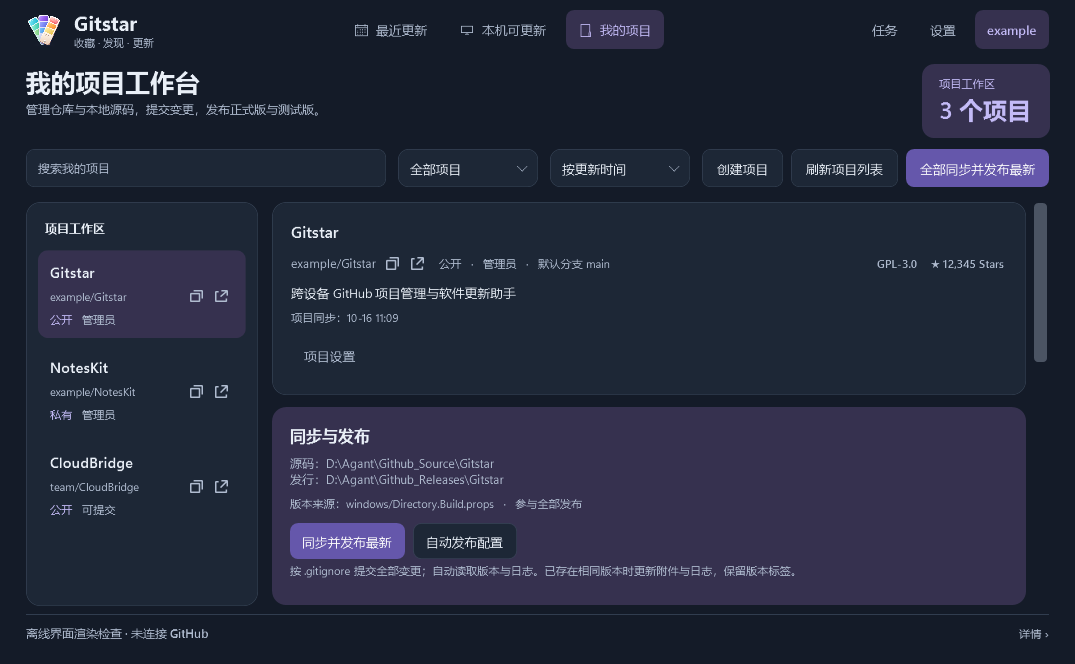
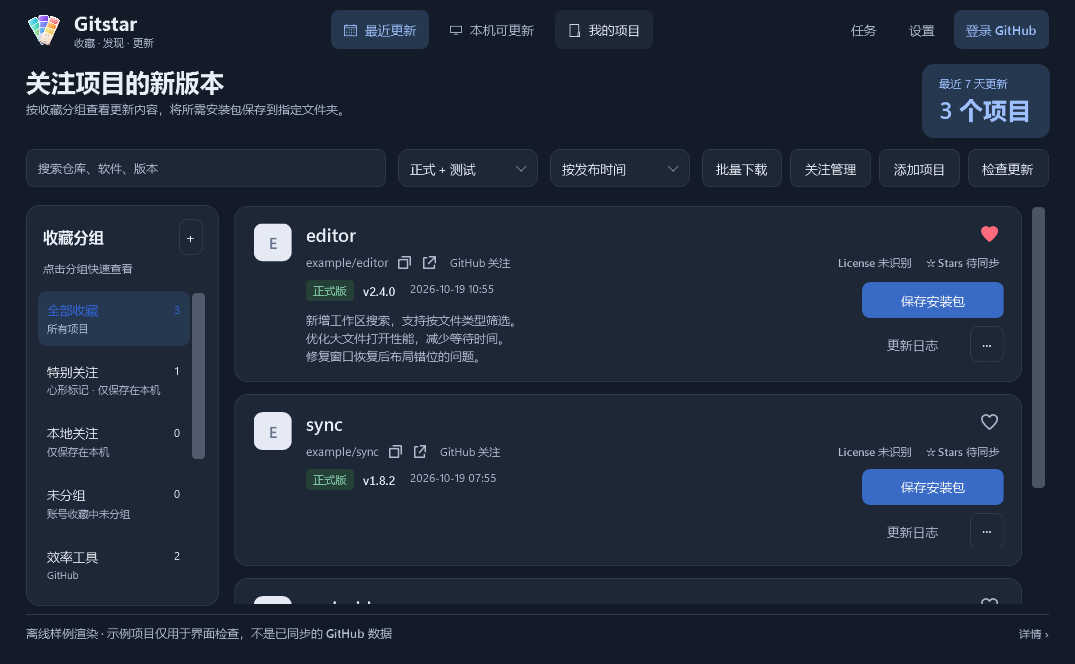
更新源码：修改 11 项，新增 4 项

diff --git a/windows/Gitstar.Desktop/MainWindow.xaml b/windows/Gitstar.Desktop/MainWindow.xaml
@@ -68,6 +68,15 @@
       <SolidColorBrush x:Key="StableInk" Color="#267554" />
       <SolidColorBrush x:Key="BetaSoft" Color="#FCF1DB" />
       <SolidColorBrush x:Key="BetaInk" Color="#8E6429" />
+      <SolidColorBrush x:Key="HeartInk" Color="#E5485D" />
+      <Style x:Key="SpecialFollowButton" TargetType="Button" BasedOn="{StaticResource {x:Type Button}}">
+        <Setter Property="Width" Value="28"/><Setter Property="Height" Value="28"/><Setter Property="MinHeight" Value="28"/><Setter Property="Padding" Value="5"/><Setter Property="Margin" Value="0,-3,0,0"/><Setter Property="Background" Value="Transparent"/><Setter Property="BorderThickness" Value="0"/><Setter Property="Foreground" Value="{DynamicResource Muted}"/>
+        <Setter Property="ToolTip" Value="{Binding SpecialFollowHint}"/><Setter Property="AutomationProperties.Name" Value="{Binding SpecialFollowHint}"/>
+        <Style.Triggers>
+          <Trigger Property="IsMouseOver" Value="True"><Setter Property="Foreground" Value="{DynamicResource HeartInk}"/><Setter Property="Background" Value="{DynamicResource AccentSoft}"/></Trigger>
+          <DataTrigger Binding="{Binding IsSpecial}" Value="True"><Setter Property="Foreground" Value="{DynamicResource HeartInk}"/></DataTrigger>
+        </Style.Triggers>
+      </Style>
       <Style x:Key="ProjectAddressButton" TargetType="Button" BasedOn="{StaticResource TertiaryButton}">
         <Setter Property="Width" Value="24"/><Setter Property="Height" Value="24"/><Setter Property="MinHeight" Value="24"/><Setter Property="Padding" Value="5"/><Setter Property="Margin" Value="1,0,0,0"/><Setter Property="VerticalAlignment" Value="Center"/>
         <Style.Triggers>
@@ -311,7 +320,12 @@
                         <RowDefinition Height="Auto" />
                       </Grid.RowDefinitions>
                       <local:OwnerAvatar Grid.RowSpan="3" Repository="{Binding Repository}" VerticalAlignment="Top" HorizontalAlignment="Left" />
-                      <TextBlock Grid.Column="1" Grid.ColumnSpan="2" Text="{Binding Title}" FontSize="18" FontWeight="SemiBold" />
+                      <TextBlock Grid.Column="1" Grid.ColumnSpan="2" Text="{Binding Title}" FontSize="18" FontWeight="SemiBold" TextTrimming="CharacterEllipsis" Margin="0,0,38,0" />
+                      <Button Grid.Column="2" HorizontalAlignment="Right" VerticalAlignment="Top" Tag="{Binding}" Click="SpecialFollow_Click" Style="{StaticResource SpecialFollowButton}" AutomationProperties.AutomationId="SpecialFollowButton">
+                        <Path Data="M12,21 C10,19 2,13 2,7.5 C2,2 9,0 12,5 C15,0 22,2 22,7.5 C22,13 14,19 12,21 Z" Width="17" Height="17" Stretch="Uniform" Stroke="{Binding Foreground,RelativeSource={RelativeSource AncestorType=Button}}" StrokeThickness="1.6" StrokeLineJoin="Round">
+                          <Path.Style><Style TargetType="Path"><Setter Property="Fill" Value="Transparent"/><Style.Triggers><DataTrigger Binding="{Binding IsSpecial}" Value="True"><Setter Property="Fill" Value="{Binding Foreground,RelativeSource={RelativeSource AncestorType=Button}}"/></DataTrigger></Style.Triggers></Style></Path.Style>
+                        </Path>
+                      </Button>
                       <Grid Grid.Row="1" Grid.Column="1" Grid.ColumnSpan="2" Margin="0,2,0,6">
                         <Grid.ColumnDefinitions>
                           <ColumnDefinition />

diff --git a/windows/Gitstar.Desktop/MainWindow.xaml.cs b/windows/Gitstar.Desktop/MainWindow.xaml.cs
@@ -118,7 +118,7 @@ public partial class MainWindow : Window
         foreach(var key in transfers.Where(p=>!p.Value.Active && !p.Value.NeedsDetection && !retained.Contains(p.Key)).Select(p=>p.Key).ToArray())transfers.Remove(key);
     }
     private void AccountLabel()=>model.Account=settings.Account.Length==0?"登录 GitHub":settings.Account;
-    private void RebuildGroups()
+    private void RebuildGroups(bool refresh=true)
     {
         var selected=(GroupSidebar.SelectedItem as GroupEntry)?.Id??"all";var allGroups=groups.Concat(settings.LocalGroups).ToList();
         var repoNames=repositories.Select(r=>r.FullName).Concat(releases.Select(r=>r.Repository)).Concat(settings.ExtraRepositories).Where(r=>!settings.HiddenRepositories.Contains(r,StringComparer.OrdinalIgnoreCase)).Distinct(StringComparer.OrdinalIgnoreCase).ToList();
@@ -126,12 +126,13 @@ public partial class MainWindow : Window
         syncingGroups=true;
         try{
             model.Groups.Clear();model.Groups.Add(new("all","全部收藏","所有项目",repoNames.Count));
+            model.Groups.Add(new(SpecialFollows.GroupId,"特别关注","心形标记 · 仅保存在本机",SpecialFollows.Visible(settings,repoNames).Length));
             model.Groups.Add(new("local-following","本地关注","仅保存在本机",FollowLists.Local(repositories,settings.ExtraRepositories,settings.HiddenRepositories).Length));
             model.Groups.Add(new("ungrouped","未分组","账号收藏中未分组",repoNames.Count(r=>githubFollowed.Contains(r)&&!allGroups.Any(g=>g.Repositories.Contains(r,StringComparer.OrdinalIgnoreCase)))));
             foreach(var g in allGroups)model.Groups.Add(new(g.Source+"/"+g.Id,g.Name,g.Source,g.Repositories.Distinct(StringComparer.OrdinalIgnoreCase).Count(r=>!settings.HiddenRepositories.Contains(r,StringComparer.OrdinalIgnoreCase)&&(g.Source!="GitHub"||githubFollowed.Contains(r)))));
             GroupFilter.ItemsSource=model.Groups.Select(g=>g.Name).ToArray();
             var index=model.Groups.ToList().FindIndex(g=>g.Id==selected);GroupFilter.SelectedIndex=Math.Max(index,0);GroupSidebar.SelectedIndex=GroupFilter.SelectedIndex;
-        }finally{syncingGroups=false;}Display();
+        }finally{syncingGroups=false;}if(refresh)Display();
     }
     private void PlanUpdates()
     {
@@ -162,11 +163,12 @@ public partial class MainWindow : Window
         if(!localPage)cards=cards.Where(c=>!settings.HiddenRepositories.Contains(c.Repository,StringComparer.OrdinalIgnoreCase));
         if(!localPage&&selectedGroup=="ungrouped")cards=cards.Where(c=>githubFollowed.Contains(c.Repository)&&!allGroups.Any(g=>g.Repositories.Contains(c.Repository,StringComparer.OrdinalIgnoreCase)));
         if(!localPage&&selectedGroup=="local-following")cards=cards.Where(c=>localFollowed.Contains(c.Repository));
+        if(!localPage&&selectedGroup==SpecialFollows.GroupId)cards=cards.Where(c=>SpecialFollows.Contains(settings,c.Repository));
         if(!localPage&&allGroups.FirstOrDefault(g=>g.Source+"/"+g.Id==selectedGroup) is {} filterGroup)cards=cards.Where(c=>filterGroup.Repositories.Contains(c.Repository,StringComparer.OrdinalIgnoreCase)&&(filterGroup.Source!="GitHub"||githubFollowed.Contains(c.Repository)));
         cards=cards.Where(c=>(c.Title+" "+c.Repository+" "+c.Version).Contains(search,StringComparison.OrdinalIgnoreCase));
         if(!localPage)cards=cards.GroupBy(c=>c.Repository,StringComparer.OrdinalIgnoreCase).Select(g=>{var selectedRelease=Rules.SelectRelease(g.Select(c=>c.Release),new Binding{IncludePrerelease=channel!=0})!;return g.First(c=>ReferenceEquals(c.Release,selectedRelease));});
         var selected=model.Cards.Where(c=>c.IsSelected).Select(c=>(c.Repository,c.Release.Id)).Concat(backgroundSelections).ToHashSet();
-        model.Cards.Clear();foreach(var card in Card.Order(cards)){card.Transfer=TransferFor(card.Release,localPage);card.IsSelected=model.SelectionMode&&selected.Contains((card.Repository,card.Release.Id));model.Cards.Add(card);}
+        model.Cards.Clear();foreach(var card in Card.Order(cards)){card.Transfer=TransferFor(card.Release,localPage);card.IsSpecial=SpecialFollows.Contains(settings,card.Repository);card.IsSelected=model.SelectionMode&&selected.Contains((card.Repository,card.Release.Id));model.Cards.Add(card);}
         backgroundSelections.Clear();
         var now=DateTimeOffset.UtcNow;
         model.CountCaption=localPage?"本机待更新软件":"最近 7 天更新";
@@ -174,6 +176,7 @@ public partial class MainWindow : Window
         CountPanel.Background=(Brush)Resources["AccentSoft"];
         model.Empty=localPage?"没有已确认的软件更新":"还没有匹配的版本";
         model.Hint=localPage?$"已检测 {installed.Count} 个软件，已关联 {settings.Bindings.Count} 个。点击「自动匹配 / 批量关联」集中确认软件仓库；未匹配项仍可手动管理。":"登录 GitHub 同步收藏，或添加仓库；也可调整左侧分组、搜索和版本通道。";
+        if(!localPage&&selectedGroup==SpecialFollows.GroupId){model.Empty="特别关注中没有匹配的项目";model.Hint="点击项目卡片右上角的心形加入特别关注，也可调整搜索和版本通道。";}
         EmptyPanel.Visibility=model.Cards.Count==0?Visibility.Visible:Visibility.Collapsed;
     }
     private void Filter_Changed(object sender,RoutedEventArgs e){if(syncingGroups)return;if(GroupSidebar!=null && GroupFilter!=null){syncingGroups=true;try{GroupSidebar.SelectedIndex=GroupFilter.SelectedIndex;}finally{syncingGroups=false;}}Display();}
@@ -546,6 +549,7 @@ public partial class MainWindow : Window
             if(!local){groups=[new("fixture-tools","效率工具","GitHub",["example/editor","example/sync"]),new("fixture-android","Android","GitHub",["example/android"])];settings.LocalGroups=[new("fixture-local","我的常用","本地",["example/editor"])];RebuildGroups();}
             ChannelFilter.SelectedIndex=1;Page(local);
             if(firstGroup&&!local)GroupSidebar.SelectedIndex=model.Groups.ToList().FindIndex(g=>g.Id=="GitHub/fixture-tools");
+            if(Environment.GetCommandLineArgs().Contains("--special-follows"))SpecialFollowsSmoke(path,local);
             if(Environment.GetCommandLineArgs().Contains("--repository-facts")){UpdateLayout();IEnumerable<RepositoryFacts> Facts(DependencyObject node){if(node is RepositoryFacts facts)yield return facts;for(var i=0;i<VisualTreeHelper.GetChildrenCount(node);i++)foreach(var found in Facts(VisualTreeHelper.GetChild(node,i)))yield return found;}var visible=Facts(this).ToArray();if(visible.Length==0||visible.Any(row=>row.Metadata?.Stars!=12345))throw new IOException("Card metadata binding failed");bool Aligned(RepositoryFacts facts){var header=(Grid)facts.Parent;var card=(Grid)header.Parent;var action=card.Children.OfType<StackPanel>().First(panel=>Grid.GetColumn(panel)==2);var button=action.Children.OfType<Button>().First();var address=header.Children.OfType<DockPanel>().Single();var a=facts.TranslatePoint(new Point(),card);var b=button.TranslatePoint(new Point(),card);var c=address.TranslatePoint(new Point(),card);return Math.Abs(a.X+facts.ActualWidth-b.X-button.ActualWidth)<1.1&&Math.Abs(a.Y+facts.ActualHeight/2-c.Y-address.ActualHeight/2)<1.1&&facts.ActualHeight<=24.1;}var aligned=visible.All(Aligned);if(!aligned)throw new IOException("Repository facts must share the address row and align with the download button");File.WriteAllText(Path.ChangeExtension(path,".repository-facts.json"),JsonSerializer.Serialize(new{Local=local,SameRowAndRightAligned=aligned,Cards=visible.Length,AllBound=visible.All(row=>row.Metadata?.License=="GPL-3.0"),Labels=visible[0].Children.OfType<Button>().Select(button=>(button.Content as TextBlock)?.Text).ToArray()}));}
             if(batchPreview){model.SelectionMode=true;model.Cards[0].IsSelected=true;}
             if(progressPreview){model.Cards[0].Transfer.Stage("下载中 0%",false);model.Cards[0].Transfer.Downloaded(27000000,50000000);if(model.Cards.Count>1)model.Cards[1].Transfer.Stage("安装器运行中");var before=model.Cards[0].Transfer;Page(!local);Page(local);File.WriteAllText(Path.ChangeExtension(path,".progress.json"),JsonSerializer.Serialize(new{ProgressPreserved=ReferenceEquals(before,model.Cards[0].Transfer),Label=model.Cards[0].Transfer.Label,CountCaption=model.CountCaption,Count=model.Count},new JsonSerializerOptions{WriteIndented=true}));}

diff --git a/windows/Gitstar.Desktop/MainWindow.SpecialFollows.Smoke.cs b/windows/Gitstar.Desktop/MainWindow.SpecialFollows.Smoke.cs
@@ -1,0 +1,30 @@
+using System.Windows;
+using System.Windows.Automation;
+using System.Windows.Controls;
+using System.Windows.Media;
+
+namespace Gitstar.Desktop;
+
+public partial class MainWindow
+{
+    private void SpecialFollowsSmoke(string path,bool local)
+    {
+        settings.SpecialRepositories=[];Save();SaveCache();RebuildGroups();var normalBefore=JsonSerializer.Serialize(new{Groups=groups,Local=settings.LocalGroups,Extra=settings.ExtraRepositories});api.Dispose();var transport=new SortingTransport();api=new(settings,transport);
+        IEnumerable<Button> Buttons(DependencyObject node){if(node is Button button)yield return button;for(var i=0;i<VisualTreeHelper.GetChildrenCount(node);i++)foreach(var found in Buttons(VisualTreeHelper.GetChild(node,i)))yield return found;}
+        Button Heart(string repo){UpdateLayout();return Buttons(this).First(button=>AutomationProperties.GetAutomationId(button)=="SpecialFollowButton"&&button.Tag is Card card&&card.Repository==repo);}
+        void Click(string repo)=>Heart(repo).RaiseEvent(new RoutedEventArgs(Button.ClickEvent));
+        var before=model.Cards.Single(card=>card.Repository=="example/editor");var heart=Heart(before.Repository);Click(before.Repository);UpdateLayout();
+        var shape=(System.Windows.Shapes.Path)heart.Content;var ink=(SolidColorBrush)shape.Fill;var red=before.IsSpecial&&ink.Color.A==255&&ink.Color.R>ink.Color.G&&ink.Color.R>ink.Color.B;var stable=ReferenceEquals(model.Cards.Single(card=>card.Repository==before.Repository),before)&&!before.IsSelected;
+        var group=model.Groups.Single(item=>item.Id==SpecialFollows.GroupId);var count=group.Count==1;
+        installed=[new("fixture1","示例编辑器","2.3.0",""),new("fixture2","示例同步工具","1.8.0","")];settings.Bindings=[new(){AppId="fixture1",Repository="example/editor"},new(){AppId="fixture2",Repository="example/sync"}];PlanUpdates();Page(true);var localMarked=model.Cards.Single(card=>card.Repository==before.Repository).IsSpecial;Page(false);
+        GroupSidebar.SelectedIndex=model.Groups.ToList().FindIndex(item=>item.Id==SpecialFollows.GroupId);var onlyMarked=model.Cards.Count==1&&model.Cards[0].Repository==before.Repository;
+        Click(before.Repository);var removed=model.Cards.Count==0&&model.Groups.Single(item=>item.Id==SpecialFollows.GroupId).Count==0&&(GroupSidebar.SelectedItem as GroupEntry)?.Id==SpecialFollows.GroupId;
+        GroupSidebar.SelectedIndex=model.Groups.ToList().FindIndex(item=>item.Id=="all");Click(before.Repository);settings=store.Get("settings",new Settings());LoadCache();RebuildGroups();Page(local);var restored=model.Cards.Single(card=>card.Repository==before.Repository).IsSpecial;
+        var selected=Heart(before.Repository);var header=(Grid)selected.Parent;var position=selected.TranslatePoint(new Point(),header);var right=Math.Abs(position.X+selected.ActualWidth-header.ActualWidth)<1.1&&Grid.GetRow(selected)==0;
+        var clear=Heart("example/sync");var outline=((SolidColorBrush)((System.Windows.Shapes.Path)clear.Content).Fill).Color.A==0;
+        var noCloud=transport.Requests==0;var noNormalGroupChanges=normalBefore==JsonSerializer.Serialize(new{Groups=groups,Local=settings.LocalGroups,Extra=settings.ExtraRepositories});
+        File.WriteAllText(Path.ChangeExtension(path,".special-follows.json"),JsonSerializer.Serialize(new{RedHeart=red,OutlineHeart=outline,TopRight=right,NoCardResetOrBulkSelection=stable,GroupCount=count,SpecialGroupFilters=onlyMarked,SecondClickRemoves=removed,RecentAndLocalShareState=localMarked,RestoredAfterReload=restored,NoGitHubRequests=noCloud,OriginalGroupsRetained=noNormalGroupChanges}));
+        if(!red||!outline||!right||!stable||!count||!onlyMarked||!removed||!localMarked||!restored||!noCloud||!noNormalGroupChanges)throw new IOException("Special follow heart or group regression");
+        if(Environment.GetCommandLineArgs().Contains("--special-group")&&!local)GroupSidebar.SelectedIndex=model.Groups.ToList().FindIndex(item=>item.Id==SpecialFollows.GroupId);
+    }
+}

diff --git a/windows/Gitstar.Checks/SpecialFollowChecks.cs b/windows/Gitstar.Checks/SpecialFollowChecks.cs
@@ -1,0 +1,20 @@
+using Gitstar.Core;
+using Gitstar.Desktop;
+using System.IO;
+
+internal static class SpecialFollowChecks
+{
+    public static void Run(Action<bool,string> check,string root)
+    {
+        var settings=new Settings{ExtraRepositories=["example/tool"],LocalGroups=[new("tools","工具","本地",["example/tool"])]};
+        check(!SpecialFollows.Contains(settings,"example/tool")&&settings.SpecialRepositories.Count==0,"existing settings start with no special follows");
+        SpecialFollows.Set(settings,"https://github.com/example/tool",true);SpecialFollows.Set(settings,"EXAMPLE/TOOL",true);
+        check(settings.SpecialRepositories.Count==1&&SpecialFollows.Contains(settings,"example/tool"),"heart selection is case-insensitive and duplicate-free");
+        check(SpecialFollows.Visible(settings,["example/tool","EXAMPLE/TOOL","other/tool"]).SequenceEqual(["example/tool"]),"special group includes only marked available repositories once");
+        check(settings.ExtraRepositories.SequenceEqual(["example/tool"])&&settings.LocalGroups.Single().Repositories.SequenceEqual(["example/tool"])&&settings.FollowHistory.Count==0,"special follows do not change normal follows group memberships or unfollow history");
+        var path=Path.Combine(root,"special-follows");using(var store=new LocalStore(path)){store.Set("settings",settings);store.Set("profile/other",new Settings());}
+        using(var store=new LocalStore(path)){var restored=store.Get("settings",new Settings());check(SpecialFollows.Contains(restored,"example/tool"),"red heart selection persists across database reopening");check(!SpecialFollows.Contains(store.Get("profile/other",new Settings()),"example/tool"),"another saved account profile does not inherit special follows");}
+        var rejected=false;try{SpecialFollows.Set(settings,"bad address",true);}catch(IOException){rejected=true;}check(rejected&&settings.SpecialRepositories.Count==1,"invalid project address does not damage existing special follows");
+        SpecialFollows.Set(settings,"example/tool",false);check(settings.SpecialRepositories.Count==0&&!SpecialFollows.Contains(settings,"EXAMPLE/TOOL"),"second heart click removes all spelling variants from special follows");
+    }
+}

diff --git a/windows/Gitstar.Desktop/MainWindow.SpecialFollows.cs b/windows/Gitstar.Desktop/MainWindow.SpecialFollows.cs
@@ -1,0 +1,19 @@
+using System.Windows;
+using System.Windows.Controls;
+
+namespace Gitstar.Desktop;
+
+public partial class MainWindow
+{
+    private void SpecialFollow_Click(object sender,RoutedEventArgs e)
+    {
+        e.Handled=true;if(quitting||(sender as Button)?.Tag is not Card card)return;
+        var before=settings.SpecialRepositories?.ToList()??[];var selected=!SpecialFollows.Contains(settings,card.Repository);
+        try{SpecialFollows.Set(settings,card.Repository,selected);store.Set("settings",settings);}
+        catch(Exception error){settings.SpecialRepositories=before;DialogMessage.Show(this,error.Message,"特别关注未保存");return;}
+        foreach(var item in model.Cards.Where(item=>item.Repository.Equals(card.Repository,StringComparison.OrdinalIgnoreCase)))item.IsSpecial=selected;
+        var removeFromCurrent=!localPage&&(GroupSidebar.SelectedItem as GroupEntry)?.Id==SpecialFollows.GroupId&&!selected;
+        RebuildGroups(refresh:removeFromCurrent);
+        model.Status=card.Repository+(selected?" 已加入特别关注。":" 已移出特别关注。");
+    }
+}

diff --git a/windows/Gitstar.Core/SpecialFollows.cs b/windows/Gitstar.Core/SpecialFollows.cs
@@ -1,0 +1,14 @@
+namespace Gitstar.Core;
+
+public static class SpecialFollows
+{
+    public const string GroupId="special-following";
+    public static bool Contains(Settings settings,string repository)=>(settings.SpecialRepositories??[]).Contains(repository,StringComparer.OrdinalIgnoreCase);
+    public static void Set(Settings settings,string repository,bool selected)
+    {
+        var name=Rules.RepositoryName(repository);if(!Rules.ValidRepository(name))throw new IOException("项目地址无效，无法设置特别关注。");
+        settings.SpecialRepositories??=[];settings.SpecialRepositories.RemoveAll(value=>value.Equals(name,StringComparison.OrdinalIgnoreCase));
+        if(selected)settings.SpecialRepositories.Add(name);
+    }
+    public static string[] Visible(Settings settings,IEnumerable<string> repositories)=>repositories.Where(repo=>Contains(settings,repo)).Distinct(StringComparer.OrdinalIgnoreCase).ToArray();
+}

diff --git a/windows/Gitstar.Desktop/MainWindow.Theme.cs b/windows/Gitstar.Desktop/MainWindow.Theme.cs
@@ -24,6 +24,7 @@ public partial class MainWindow
         var keys=new[]{"Background","Surface","Ink","Muted","Edge","Panel"};for(var i=0;i<keys.Length;i++)Resources[keys[i]]=UiBrush(palette[i]);
         Resources["StableSoft"]=UiBrush(settings.Dark?"#254137":"#E5F3EC");Resources["StableInk"]=UiBrush(settings.Dark?"#8ED7B6":"#267554");Resources["BetaSoft"]=UiBrush(settings.Dark?"#493A25":"#FCF1DB");Resources["BetaInk"]=UiBrush(settings.Dark?"#EBC388":"#8E6429");
         Resources["DangerInk"]=UiBrush(settings.Dark?"#FFADB4":"#B13E48");
+        Resources["HeartInk"]=UiBrush(settings.Dark?"#FF6B7C":"#E5485D");
         SetPageAccent(projectsPage?2:localPage?1:0);
     }
 }

diff --git a/windows/Gitstar.Desktop/ViewModels.cs b/windows/Gitstar.Desktop/ViewModels.cs
@@ -10,6 +10,9 @@ public class Observable : INotifyPropertyChanged
 }
 public sealed class Card : Observable
 {
+    private bool special;
+    public bool IsSpecial {get=>special;set{if(special==value)return;Set(ref special,value);Changed(nameof(SpecialFollowHint));}}
+    public string SpecialFollowHint=>IsSpecial?"移出特别关注":"加入特别关注";
     public RepositoryMetadata Metadata {get;init;}=new();
     private bool selected;
     public bool IsSelected {get=>selected;set=>Set(ref selected,value);}

diff --git a/windows/Gitstar.Checks/Program.cs b/windows/Gitstar.Checks/Program.cs
@@ -206,6 +206,7 @@ await SourceSyncChecks.Run(Check,root);
 ReleaseNotesChecks.Run(Check,root);
 RepositoryMetadataChecks.Run(Check);
 SoftwareEntryChecks.Run(Check,root);
+SpecialFollowChecks.Run(Check,root);
 PortableReplacementChecks.Run(Check,root);
 await ReleaseStateChecks.Run(Check,root);
 await SelfUpdateChecks.Run(Check);

diff --git a/windows/Gitstar.Core/Models.cs b/windows/Gitstar.Core/Models.cs
@@ -30,6 +30,7 @@ public class Binding
 }
 public class Settings
 {
+    public List<string> SpecialRepositories {get;set;}=[];
     public List<FollowHistoryEntry> FollowHistory {get;set;}=[];
     public int BulkDownloadDays {get;set;}=7;
     public List<string> BulkDownloadExtensions {get;set;}=[".exe",".msi",".zip"];
